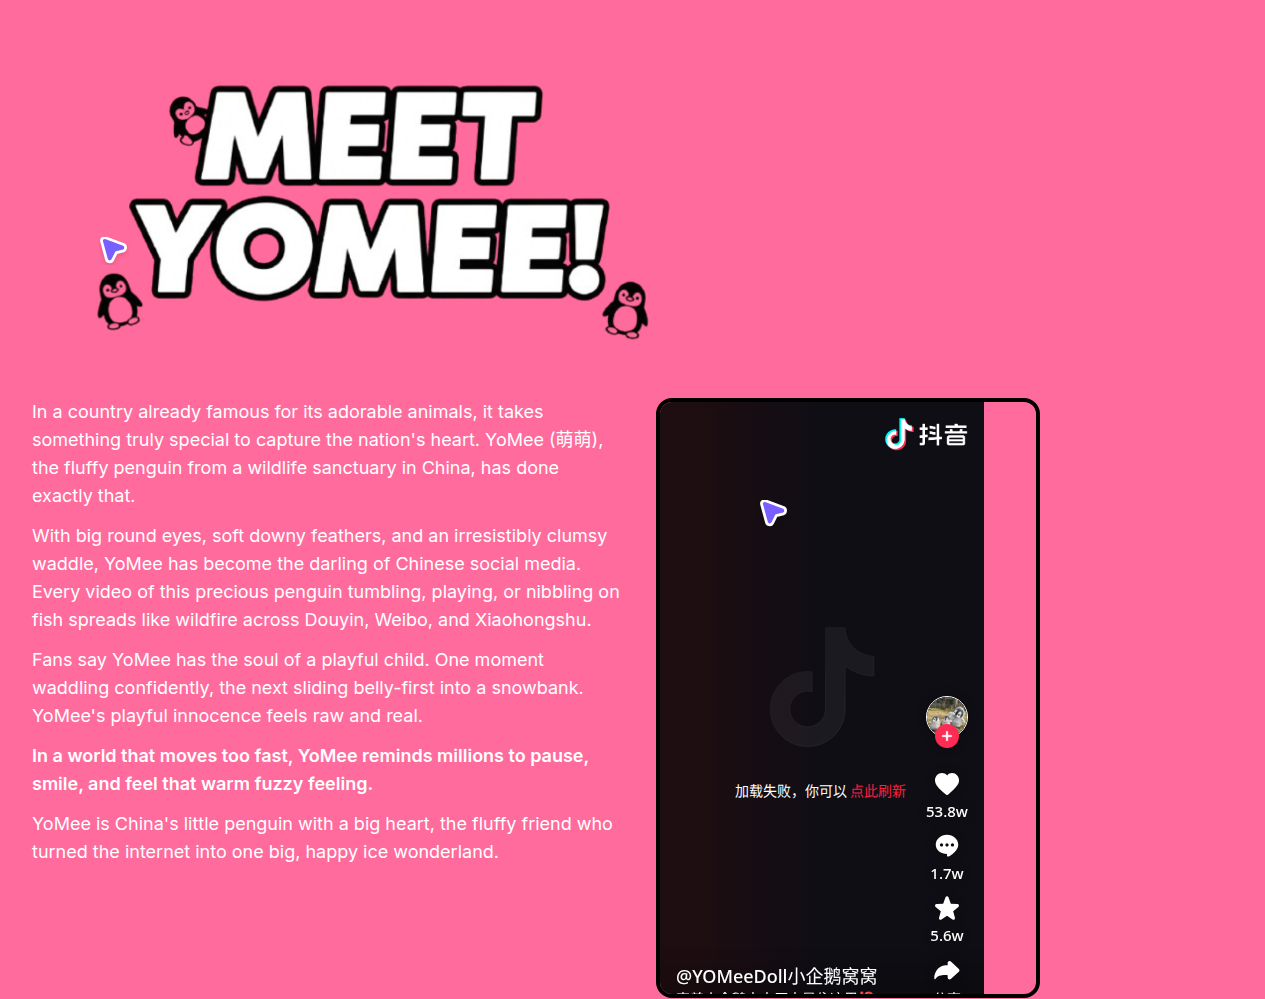
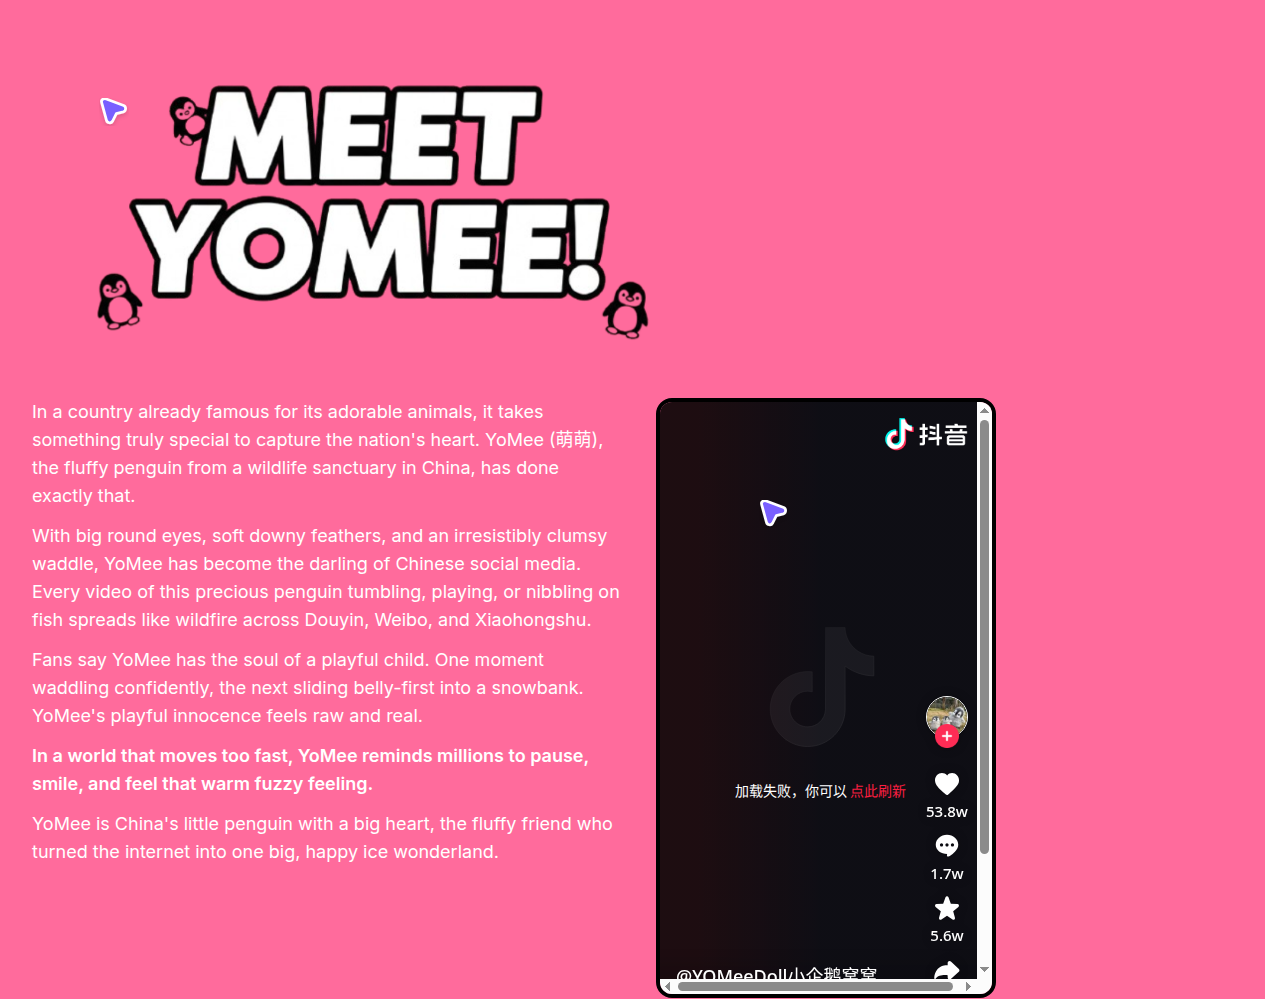
Adjust video player spacing to fit screen edge without gaps
Modify DouyinEmbed component to remove wrapper div and directly apply styling to iframe, setting fixed width and height to eliminate surrounding whitespace.

Replit-Commit-Author: Agent
Replit-Commit-Session-Id: ef047645-0fb5-42aa-b7e7-bfad4f4601ec
Replit-Commit-Checkpoint-Type: full_checkpoint
Replit-Commit-Screenshot-Url: https://storage.googleapis.com/screenshot-production-us-central1/a3c570b3-fcc6-4088-a4c6-494f072b5d03/ef047645-0fb5-42aa-b7e7-bfad4f4601ec/3jWMBHB

Changed region(s): [[0.5241, 0.3724, 0.8324, 1.0], [0.0617, 0.2172, 0.0925, 0.2793], [0.0617, 0.0931, 0.0925, 0.1241]]

diff --git a/client/src/components/DouyinEmbed.tsx b/client/src/components/DouyinEmbed.tsx
@@ -7,17 +7,15 @@ interface DouyinEmbedProps {
 export default function DouyinEmbed({ videoId, autoplay = false, className = "" }: DouyinEmbedProps) {
   return (
     <div className="flex justify-center lg:justify-start">
-      <div className={`relative max-w-sm w-full ${className}`}>
-        <iframe
-          className="w-full rounded-2xl border-4 border-black"
-          src={`https://open.douyin.com/player/video?vid=${videoId}&autoplay=${autoplay ? '1' : '0'}`}
-          frameBorder="0"
-          referrerPolicy="unsafe-url"
-          allowFullScreen
-          allow="autoplay; fullscreen"
-          style={{ height: '600px' }}
-        />
-      </div>
+      <iframe
+        className={`rounded-2xl border-4 border-black ${className}`}
+        src={`https://open.douyin.com/player/video?vid=${videoId}&autoplay=${autoplay ? '1' : '0'}`}
+        frameBorder="0"
+        referrerPolicy="unsafe-url"
+        allowFullScreen
+        allow="autoplay; fullscreen"
+        style={{ width: '340px', height: '600px' }}
+      />
     </div>
   );
 }
